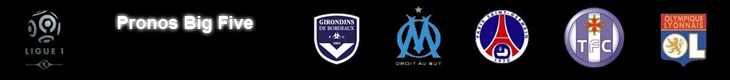
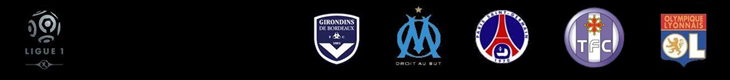
- Modification de la bannière - Faille-fix pour le blocage des pronos sur la journée en cours

Changed region(s): [[0.1507, 0.15, 0.3616, 0.45]]

diff --git a/site/css/style.css b/site/css/style.css
@@ -74,17 +74,6 @@ div#global  {
 	background:#F2F2F2;
 }
 
-div#global h1 {
-	height:80px;
-	background:url('../images/ban.png') no-repeat;
-	color:white;
-}
-
-div#global h1 > div {
-	text-indent:160px;
-	padding-top:45px;
-}
-
 div#global div#container {
 	overflow:hidden;
 	padding-bottom:50px;
@@ -140,7 +129,11 @@ div#footer {
 
 div#global div#content h1 {
 	margin:5px 0 15px 0;
-	font-size:16px;
+	padding:18px 0 0 110px;
+	height:80px;
+	background:url('../images/ban.png') no-repeat;
+	color:white;
+	line-height:20px;
 }
 
 div#global div#content p {

diff --git a/site/javascript/google-analytics.js b/site/javascript/google-analytics.js
@@ -1,0 +1,10 @@
+
+<script type="text/javascript">
+var gaJsHost = (("https:" == document.location.protocol) ? "https://ssl." : "http://www.");
+document.write(unescape("%3Cscript src='" + gaJsHost + "google-analytics.com/ga.js' type='text/javascript'%3E%3C/script%3E"));
+</script>
+<script type="text/javascript">
+try {
+var pageTracker = _gat._getTracker("UA-10824270-2");
+pageTracker._trackPageview();
+} catch(err) {}</script>

diff --git a/site/index.php b/site/index.php
@@ -43,6 +43,7 @@ $restricted = array('add','maj','scores');
 	<title><?php echo TITLE; ?></title>
 	<meta http-equiv="Content-Type" content="text/html; charset=UTF-8" />
 	<meta name="author" content="Julien Paroche, Arthur Foucher" />
+	<meta name="robots" content="noindex, nofollow" />
 
 	<!-- css -->
 	<link rel="stylesheet" media="screen" type="text/css" href="css/style.css" />
@@ -75,29 +76,34 @@ $restricted = array('add','maj','scores');
 			<?php require_once('includes/menu.php'); ?>
 			
 			<div id="content" class="colonne">
-				<?php				
+				<?php
+				$title = 'Pronos « Big Five » Ligue 1';
+				
 				$page = isset($_GET['p']) ? $_GET['p'] : 'accueil';
 				$path = 'pages/'.$page.'.php';
 				
 				if(in_array($page, $restricted) && (!$_SESSION['is_connect'] || !in_array($_SESSION['id'], $idadmins))) {
-					echo '<h1></h1><p class="error">Vous n\'êtes pas autorisé à consulter cette page</p>';
+					echo '<h1>'.$title.'</h1><p class="error">Vous n\'êtes pas autorisé à consulter cette page</p>';
 				}				
 				elseif($page == 'accueil' || $page == 'contact' || ($page != 'accueil' && $_SESSION['is_connect'] && file_exists($path))) {
-					echo '<h1><div>'.ucfirst($page).'</div></h1>';
+					echo '<h1>'.$title.'<br />'.ucfirst($page).'</h1>';
 					require_once($path);
 				}
 				elseif(!file_exists($path)) {
-					echo '<h1></h1><p class="error">La page demandée n\'existe pas</p>';
+					echo '<h1>'.$title.'</h1><p class="error">La page demandée n\'existe pas</p>';
 				}
 				else {
-					echo '<h1></h1><p class="error">Vous n\'êtes pas autorisé à consulter cette page</p>';
+					echo '<h1>'.$title.'</h1><p class="error">Vous n\'êtes pas autorisé à consulter cette page</p>';
 				}
 				?>
 			</div>
 			
 		</div>
 		
-		<?php require_once('includes/footer.php'); ?>
+		<?php
+			include_once('includes/footer.php');
+			include_once('javascript/google-analytics.js');
+		?>
 	</div>
 </body>
 </html>

diff --git a/site/pages/mypronos.php b/site/pages/mypronos.php
@@ -18,6 +18,8 @@ if(isset($_GET['journee'])) {
 		echo '<span class="error">La journée demandée n\'existe pas</span>';
 	elseif(!journee_has_match($idjournee))
 		echo '<span class="error">Aucun match n\'est enregistré pour la journée demandée</span>';
+	elseif(journee_locked($idjournee))
+		echo '<span class="error">Les pronostics sont fermés pour la journée demandée</span>';
 	else {
 		$journee = journee_get_by_id($idjournee);
 		echo '<p class="strong">Mes pronostics pour la '.display_number($journee['numero']).' journée (premier match le '.time_to_str($journee['date']).')</p>';
@@ -56,7 +58,7 @@ if(isset($_POST['submit_pronos'])) {
 
 
 $matchs = match_get_by_journee($idjournee);
-if(mysql_num_rows($matchs)) {
+if(mysql_num_rows($matchs) && !journee_locked($idjournee)) {
 ?>
 <form method="post" action="<?php echo $_SERVER['REQUEST_URI']; ?>">
 	<?php

diff --git a/site/lib/journee.php b/site/lib/journee.php
@@ -125,4 +125,13 @@ function journee_terminate($id) {
 	return sql_query($sql);
 }
 
+function journee_locked($id) {
+	$sql = "SELECT date AS timestamp
+			FROM journee
+			WHERE id = $id";
+	
+	$date = mysql_fetch_assoc(sql_query($sql));
+	return $date['timestamp'] < time();
+}
+
 
